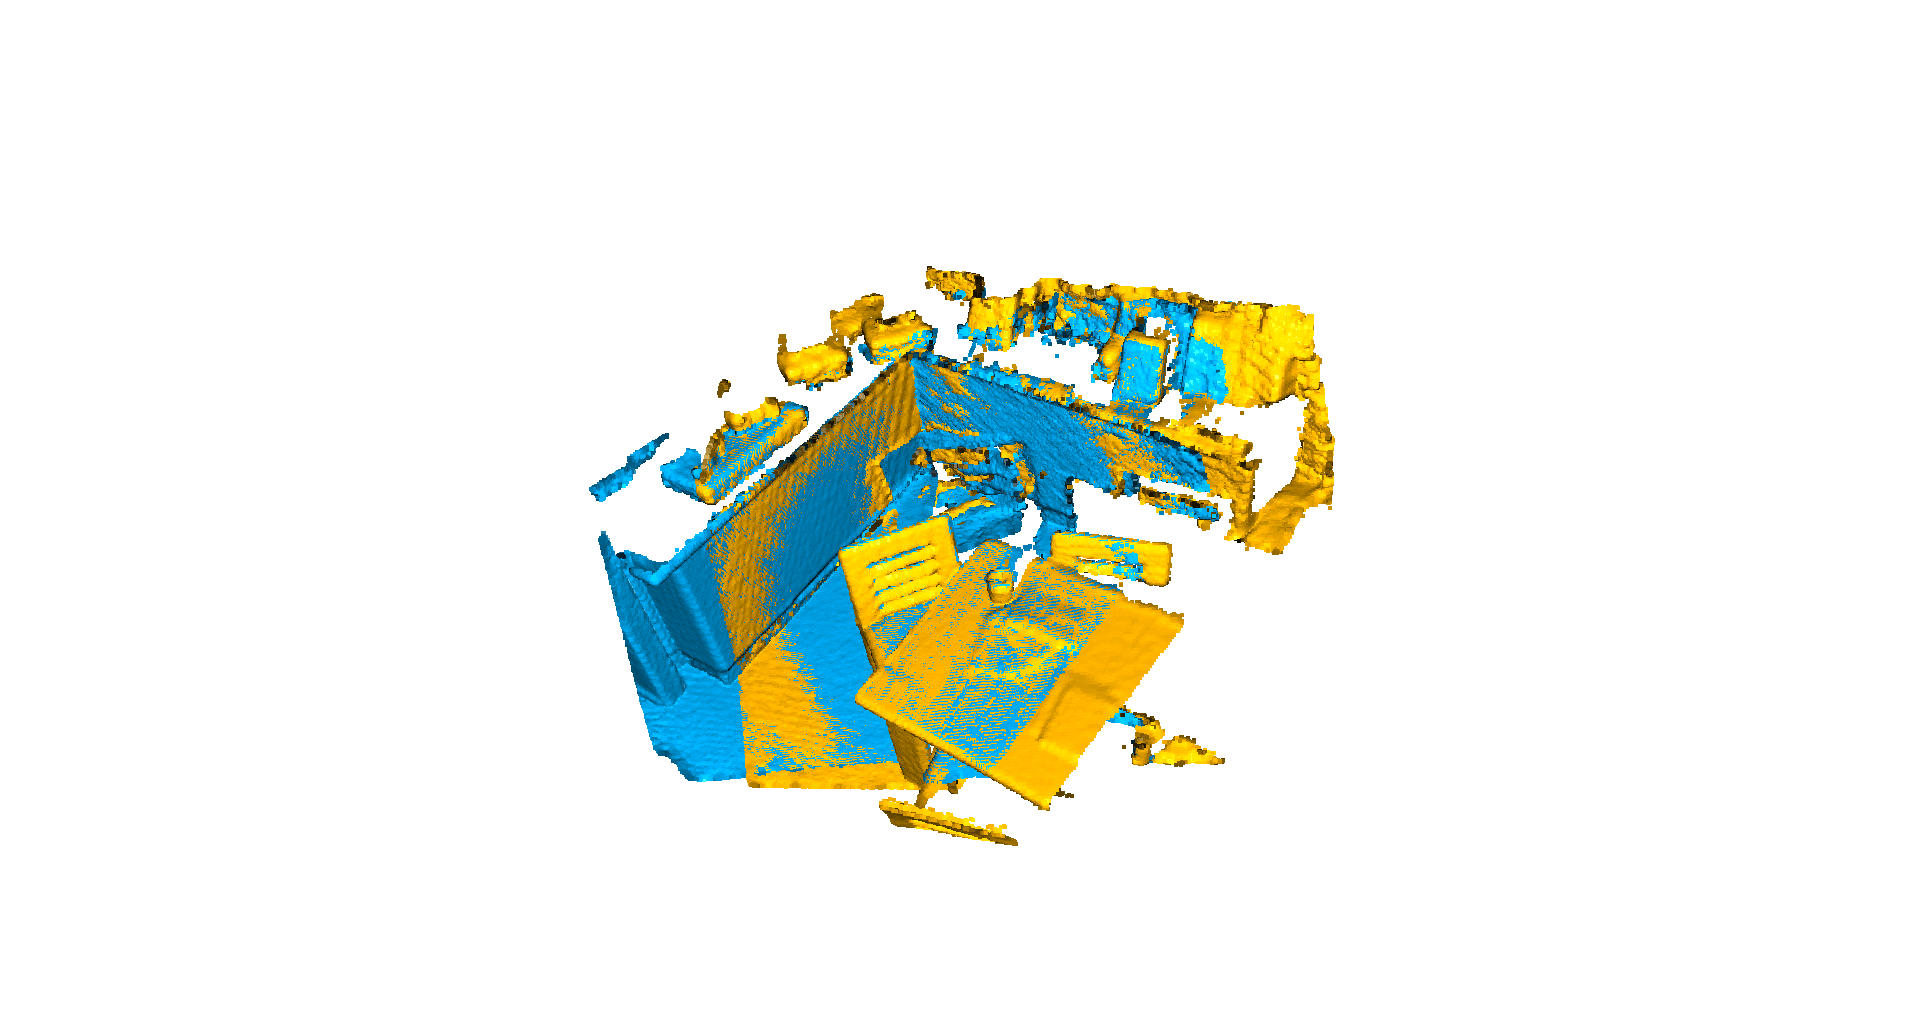
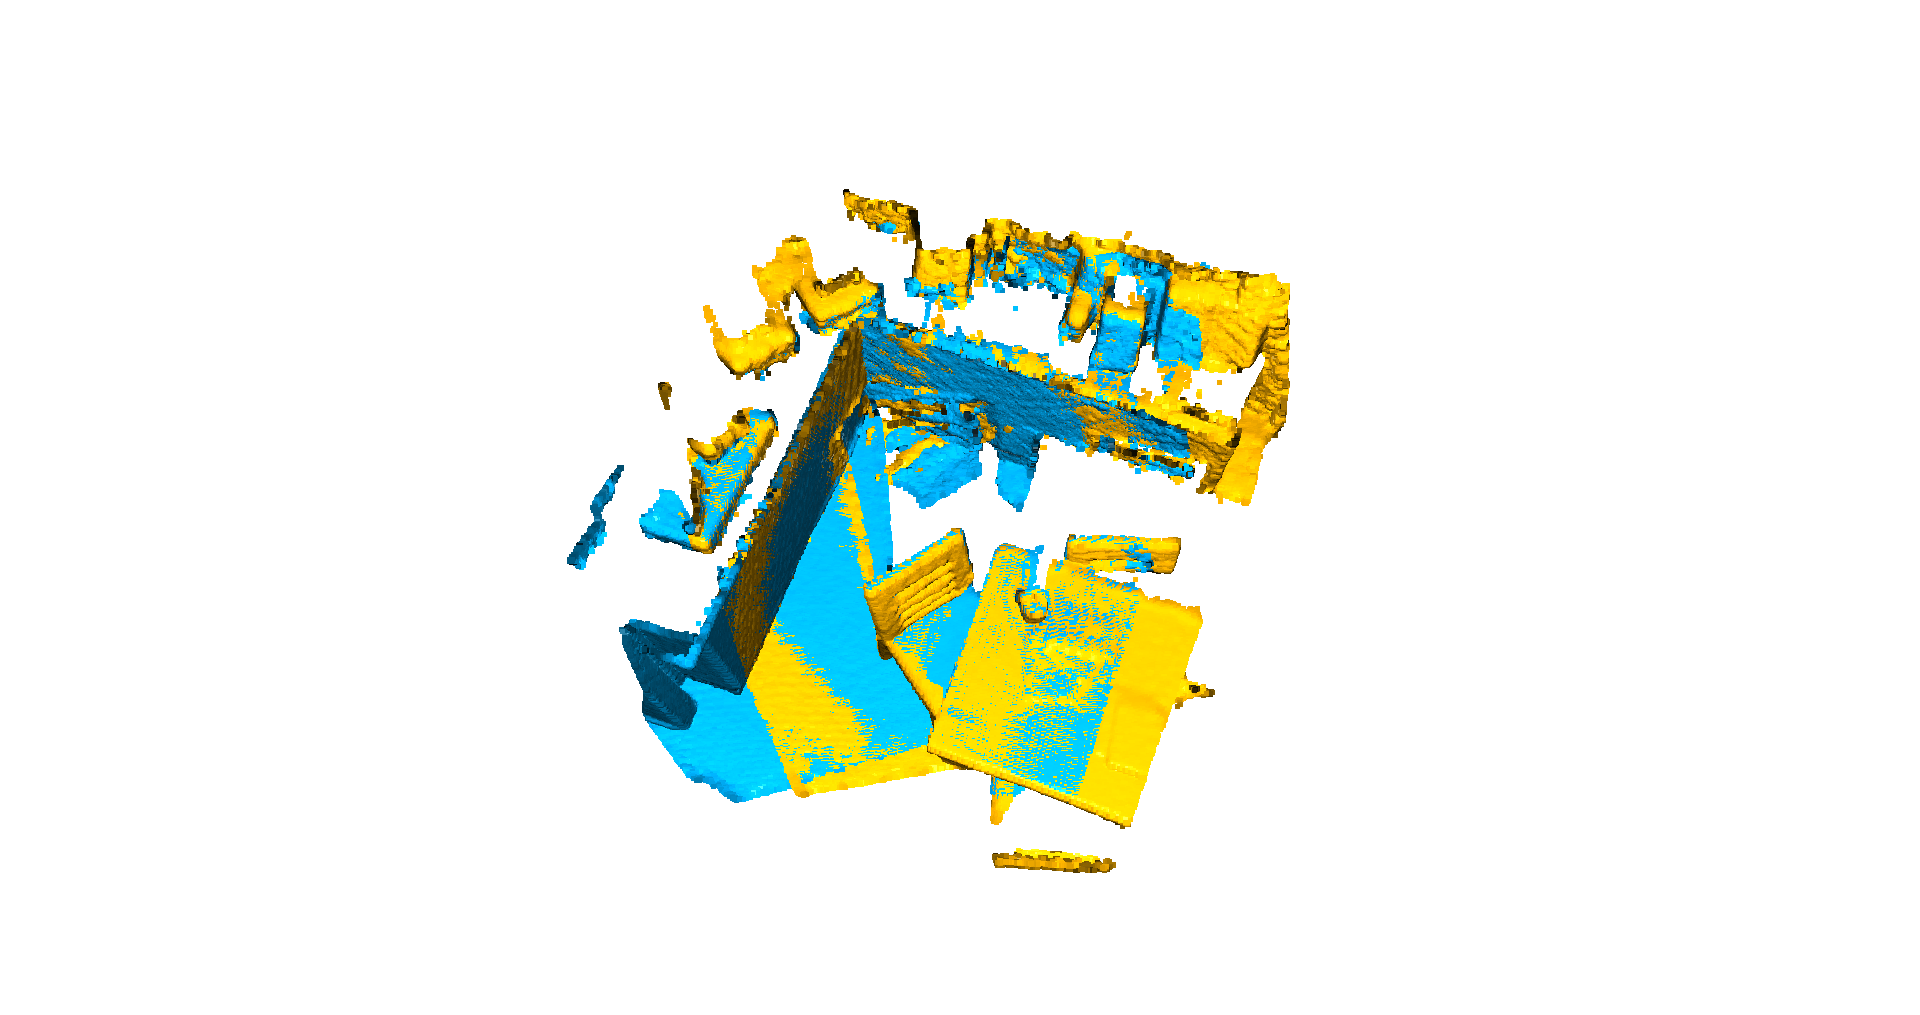
update pic and demo

Changed region(s): [[0.2812, 0.1833, 0.7188, 0.8552]]

diff --git a/demo.py b/demo.py
@@ -2,12 +2,14 @@ import os
 import copy
 import json
 import torch
-import open3d
 import numpy as np
+import open3d as o3d
 import torch.utils.data as data
+from sklearn.neighbors import KDTree
 from easydict import EasyDict as edict
 from models.architectures import KPFCNN
 from datasets.dataloader import get_dataloader
+from utils.visualization import get_colored_point_cloud_feature
 
 
 class MiniDataset(data.Dataset):
@@ -17,7 +19,6 @@ class MiniDataset(data.Dataset):
                  files,
                  downsample=0.03,
                  config=None,
-                 last_scene=False,
                  ):
         self.files = files
         self.downsample = downsample
@@ -29,8 +30,9 @@ class MiniDataset(data.Dataset):
         self.num_test = 0
 
         for filename in files:
-            pcd = open3d.io.read_point_cloud(filename)
-            pcd = open3d.geometry.PointCloud.voxel_down_sample(pcd, voxel_size=downsample)
+            pcd = o3d.io.read_point_cloud(filename)
+            pcd = o3d.geometry.PointCloud.voxel_down_sample(pcd, voxel_size=downsample)
+
             points = np.array(pcd.points)
             self.points += [points]
             self.ids_list += [filename]
@@ -49,7 +51,7 @@ class MiniDataset(data.Dataset):
 def generate_features(model, dloader, point_cloud_files):
     dataloader_iter = dloader.__iter__()
     for pc_file in point_cloud_files:
-        # pcd = open3d.io.read_point_cloud(pc_file)
+        # pcd = o3d.io.read_point_cloud(pc_file)
         # xyz = np.array(pcd.points)
 
         inputs = dataloader_iter.next()
@@ -64,15 +66,12 @@ def generate_features(model, dloader, point_cloud_files):
         features, scores = features[:int(pcd_size)], scores[:int(pcd_size)]
 
         # selecet keypoint based on scores
-        # scores_first_pcd = scores[inputs['in_batches'][0][:-1]]
-        # select_num = 1000
-        # selected_keypoints_id = np.argsort(scores.cpu().detach().numpy(), axis=0)[:].squeeze()[0:select_num]
-
-        selected_keypoints_id = np.argsort(scores.cpu().detach().numpy(), axis=0)[:].squeeze()
+        selected_keypoints_id = np.argsort(scores.cpu().detach().numpy(), axis=0)[::-1].squeeze()
         keypts_score = scores.cpu().detach().numpy()[selected_keypoints_id]
         keypts_loc = pts.cpu().detach().numpy()[selected_keypoints_id]
         anc_features = features.cpu().detach().numpy()[selected_keypoints_id]
 
+        # scores = scores.detach().cpu()
         # save keypts/features/scores in ".npz" format
         np.savez_compressed(
             pc_file.replace(".ply", ""),
@@ -85,30 +84,100 @@ def generate_features(model, dloader, point_cloud_files):
 def draw_registration_result(source, target, transformation):
     source_temp = copy.deepcopy(source)
     target_temp = copy.deepcopy(target)
-    open3d.geometry.PointCloud.estimate_normals(source_temp)
-    open3d.geometry.PointCloud.estimate_normals(target_temp)
+    o3d.geometry.PointCloud.estimate_normals(source_temp)
+    o3d.geometry.PointCloud.estimate_normals(target_temp)
     source_temp.paint_uniform_color([1, 0.706, 0])
     target_temp.paint_uniform_color([0, 0.651, 0.929])
     source_temp.transform(transformation)
-    open3d.visualization.draw_geometries([source_temp, target_temp])
+    o3d.visualization.draw_geometries([source_temp, target_temp])
 
 
 def execute_global_registration(src_keypts, tgt_keypts, src_desc, tgt_desc, distance_threshold):
-    result = open3d.pipelines.registration.registration_ransac_based_on_feature_matching(
+    # result = o3d.pipelines.registration.registration_ransac_based_on_feature_matching(
+    #     src_keypts, tgt_keypts, src_desc, tgt_desc, distance_threshold,
+    #     o3d.pipelines.registration.TransformationEstimationPointToPoint(False),
+    #     4, [o3d.pipelines.registration.CorrespondenceCheckerBasedOnEdgeLength(0.9),
+    #         o3d.pipelines.registration.CorrespondenceCheckerBasedOnDistance(distance_threshold)],
+    #     o3d.pipelines.registration.RANSACConvergenceCriteria(4000000, 500))
+    result = o3d.pipelines.registration.registration_ransac_based_on_feature_matching(
         src_keypts, tgt_keypts, src_desc, tgt_desc, True, distance_threshold,
-        open3d.pipelines.registration.TransformationEstimationPointToPoint(False), 3,
-        [open3d.pipelines.registration.CorrespondenceCheckerBasedOnEdgeLength(0.9),
-         open3d.pipelines.registration.CorrespondenceCheckerBasedOnDistance(distance_threshold)
-         ], open3d.pipelines.registration.RANSACConvergenceCriteria(4000000, 500))
+        o3d.pipelines.registration.TransformationEstimationPointToPoint(False), 3,
+        [o3d.pipelines.registration.CorrespondenceCheckerBasedOnEdgeLength(0.9),
+         o3d.pipelines.registration.CorrespondenceCheckerBasedOnDistance(distance_threshold)
+         ], o3d.pipelines.registration.RANSACConvergenceCriteria(100000, 0.999))
+    # result = o3d.pipelines.registration.registration_fast_based_on_feature_matching(src_keypts, tgt_keypts, src_desc, tgt_desc, option=None)
     return result
 
 
 def refine_registration(source, target, result_ransac, distance_threshold):
-    result = open3d.pipelines.registration.registration_icp(
+    result = o3d.pipelines.registration.registration_icp(
         source, target, distance_threshold, result_ransac.transformation,
-        open3d.pipelines.registration.TransformationEstimationPointToPlane())
+        o3d.pipelines.registration.TransformationEstimationPointToPlane())
     return result
 
+
+def pcd2xyz(pcd):
+    return np.asarray(pcd.points).T
+
+
+def Rt2T(R, t):
+    T = np.identity(4)
+    T[:3, :3] = R
+    T[:3, 3] = t
+    return T
+
+
+def find_mutually_nn_keypoints(ref_key, test_key, ref, test):
+    """
+    Use kdtree to find mutually closest keypoints
+
+    ref_key: reference keypoints (source)
+    test_key: test keypoints (target)
+    ref: reference feature (source feature)
+    test: test feature (target feature)
+    """
+    ref_features = ref.data.T
+    test_features = test.data.T
+    ref_keypoints = np.asarray(ref_key.points)
+    test_keypoints = np.asarray(test_key.points)
+    n_samples = test_features.shape[0]
+
+    ref_tree = KDTree(ref_features)
+    test_tree = KDTree(test.data.T)
+    test_NN_idx = ref_tree.query(test_features, return_distance=False)
+    ref_NN_idx = test_tree.query(ref_features, return_distance=False)
+
+    # find mutually closest points
+    ref_match_idx = np.nonzero(
+        np.arange(n_samples) == np.squeeze(test_NN_idx[ref_NN_idx])
+    )[0]
+    ref_matched_keypoints = ref_keypoints[ref_match_idx]
+    test_matched_keypoints = test_keypoints[ref_NN_idx[ref_match_idx]]
+
+    return np.transpose(ref_matched_keypoints), np.transpose(test_matched_keypoints)
+
+
+def compose_mat4_from_teaserpp_solution(solution):
+    """
+    Compose a 4-by-4 matrix from teaserpp solution
+    """
+    s = solution.scale
+    rotR = solution.rotation
+    t = solution.translation
+    T = np.eye(4)
+    T[0:3, 3] = t
+    R = np.eye(4)
+    R[0:3, 0:3] = rotR
+    M = T.dot(R)
+
+    if s == 1:
+        M = T.dot(R)
+    else:
+        S = np.eye(4)
+        S[0:3, 0:3] = np.diag([s, s, s])
+        M = T.dot(R).dot(S)
+
+    return M
 
 if __name__ == '__main__':
     ######################  Preprocess  ######################
@@ -118,8 +187,8 @@ if __name__ == '__main__':
                          "./demo_data/cloud_bin_1.ply"]
 
     # model path
-    # TODO: choose your model path
-    model_pathdir = 'D3Feat/snapshot/D3Feat04112122'
+    model_pathdir = './pretrain_model/D3Feat08051813'
+    # model_pathdir = './D3Feat/snapshot/D3Feat04112122'
     config_path = os.path.join(model_pathdir, 'config.json')
     model_path = os.path.join(model_pathdir, 'models/model_best_acc.pth')
     save_path = ["./demo_data/cloud_bin_0.npz",
@@ -149,11 +218,14 @@ if __name__ == '__main__':
     print(f"Load weight from {model_path}")
     model.eval()
 
-    # TODO: choose whether calculate descriptors
+    # datasets = prepare_data(point_cloud_files)
+
     calculate_descriptors = True
-    if calculate_descriptors == True:
+    if calculate_descriptors:
+        print("###################  Calculate Descriptors  ####################")
         # calculate descriptors
         # Initiate dataset configuration
+        # TODO: set downsample
         dataset = MiniDataset(files=point_cloud_files, downsample=0.03, config=config)
 
         dloader, _ = get_dataloader(dataset=dataset,
@@ -164,89 +236,99 @@ if __name__ == '__main__':
         generate_features(model.cuda(), dloader, point_cloud_files)
 
     ###################### Visualize  ######################
-    # show pc and registration
-    # Load the descriptors and estimate the transformation parameters using RANSAC
-    src_pcd = open3d.io.read_point_cloud(point_cloud_files[0])
-    tgt_pcd = open3d.io.read_point_cloud(point_cloud_files[1])
+    src_pcd = o3d.io.read_point_cloud(point_cloud_files[0])
+    tgt_pcd = o3d.io.read_point_cloud(point_cloud_files[1])
 
-    # TODO: define src descriptors file path
-    src_data = np.load(save_path[0])
-    src_features = open3d.pipelines.registration.Feature()
+    src_data = np.load("./demo_data/cloud_bin_0.npz")
+    src_features = o3d.pipelines.registration.Feature()
     src_features.data = src_data["features"].T
-    src_keypts = open3d.geometry.PointCloud()
-    src_keypts.points = open3d.utility.Vector3dVector(src_data["keypts"])
+    src_keypts = o3d.geometry.PointCloud()
+    src_keypts.points = o3d.utility.Vector3dVector(src_data["keypts"])
+    # o3d.visualization.draw_geometries([src_keypts])  # 显示一下
     src_scores = src_data["scores"]
 
-    # TODO: define tgt descriptors file path
-    tgt_data = np.load(save_path[1])
-    tgt_features = open3d.pipelines.registration.Feature()
+    tgt_data = np.load("./demo_data/cloud_bin_1.npz")
+    tgt_features = o3d.pipelines.registration.Feature()
     tgt_features.data = tgt_data["features"].T
-    tgt_keypts = open3d.geometry.PointCloud()
-    tgt_keypts.points = open3d.utility.Vector3dVector(tgt_data["keypts"])
+    tgt_keypts = o3d.geometry.PointCloud()
+    tgt_keypts.points = o3d.utility.Vector3dVector(tgt_data["keypts"])
+    # o3d.visualization.draw_geometries([tgt_keypts])
     tgt_scores = tgt_data["scores"]
 
-    # Show result
+    # # Show result
     # First plot the original state of the point clouds
+    print("1st: plot the original state of the point clouds")
     draw_registration_result(src_pcd, tgt_pcd, np.identity(4))
 
     # Plot point clouds after ransac registration
-    # TODO: set voxel_size/distance_threshold/radius_normal/icp_distance_threshold
+    print("2nd: plot point clouds after ransac registration")
     voxel_size = 0.03
     distance_threshold = voxel_size * 1.5
-    result_ransac = execute_global_registration(src_keypts, tgt_keypts, src_features, tgt_features, distance_threshold=distance_threshold)
+    result_ransac = execute_global_registration(src_keypts, tgt_keypts, src_features, tgt_features,
+                                                distance_threshold=distance_threshold)
     print(f"result_ransac: {result_ransac}")
     draw_registration_result(src_pcd, tgt_pcd, result_ransac.transformation)
 
     # Plot point clouds after icp registration
+    print("3rd: plot point clouds after icp registration")
     radius_normal = voxel_size * 2
-    src_keypts.estimate_normals(open3d.geometry.KDTreeSearchParamHybrid(radius=radius_normal, max_nn=30))
-    tgt_keypts.estimate_normals(open3d.geometry.KDTreeSearchParamHybrid(radius=radius_normal, max_nn=30))
+    src_keypts.estimate_normals(o3d.geometry.KDTreeSearchParamHybrid(radius=radius_normal, max_nn=30))
+    tgt_keypts.estimate_normals(o3d.geometry.KDTreeSearchParamHybrid(radius=radius_normal, max_nn=30))
 
     icp_distance_threshold = voxel_size
     result_icp = refine_registration(src_keypts, tgt_keypts, result_ransac, distance_threshold=icp_distance_threshold)
     draw_registration_result(src_pcd, tgt_pcd, result_icp.transformation)
     print(f"result_icp: {result_icp}")
 
-    # Visualize the detected keypts on src_pcd and tgt_pcd
-    # TODO: set show keypts num and keypts size
+    ####################### Visualize the detected keypts on src_pcd and tgt_pcd #######################
     show_num = 50
-    keypts_radius = 0.03
-    box_list = []
-    top_k = np.argsort(tgt_scores, axis=0)[-show_num:]
-    for i in range(show_num):
-        mesh_box = open3d.geometry.TriangleMesh.create_sphere(radius=keypts_radius)
-        mesh_box.translate(tgt_data["keypts"][top_k[i]].reshape([3, 1]))
-        mesh_box.paint_uniform_color([1, 0, 0])
-        box_list.append(mesh_box)
+    point_size = 0.03
 
-    open3d.geometry.PointCloud.estimate_normals(tgt_pcd)
-    tgt_pcd.paint_uniform_color([0, 0.651, 0.929])
-    open3d.visualization.draw_geometries([tgt_pcd] + box_list)
-    
-    # visual feature
-    import torch.nn as nn
-    Linear = nn.Linear(32, 3)
-    feat_3d = Linear(torch.tensor(tgt_data["features"]).float())
-    feat_3d = normal(feat_3d)
-    tgt_keypts.colors = open3d.utility.Vector3dVector(feat_3d.detach().numpy())
-    open3d.visualization.draw_geometries([tgt_keypts])
-
-
+    print("4th: Visualize the detected keypts on src_pcd")
     box_list = []
     top_k = np.argsort(src_scores, axis=0)[-show_num:]
+
     for i in range(show_num):
-        mesh_box = open3d.geometry.TriangleMesh.create_sphere(radius=keypts_radius)
+        mesh_box = o3d.geometry.TriangleMesh.create_sphere(radius=point_size)
         mesh_box.translate(src_data["keypts"][top_k[i]].reshape([3, 1]))
         mesh_box.paint_uniform_color([1, 0, 0])
         box_list.append(mesh_box)
 
-    open3d.geometry.PointCloud.estimate_normals(src_pcd)
-    src_pcd.paint_uniform_color([1, 0.706, 0])
-    open3d.visualization.draw_geometries([src_pcd] + box_list)
-    
-    # visual feature
-    Linear = nn.Linear(32, 3)
-    feat_3d = Linear(torch.tensor(src_data["features"]).float())
-    feat_3d = normal(feat_3d)
-    src_keypts.colors = open3d.utility.Vector3dVector(feat_3d.detach().numpy())
-    open3d.visualization.draw_geometries([src_keypts])
+    o3d.geometry.PointCloud.estimate_normals(src_pcd)
+
+    src_pcd.paint_uniform_color([0, 0.651, 0.929])
+    o3d.visualization.draw_geometries([src_pcd] + box_list)
+    # o3d.visualization.draw_geometries_with_vertex_selection([src_pcd])
+
+    # Visualization of Feature
+    print("5th: Visualize the detected keypts on src_pcd by t-SNE")
+    vis_src_pcd = o3d.geometry.PointCloud()
+    vis_src_pcd.points = o3d.utility.Vector3dVector(src_data["keypts"])
+    o3d.geometry.PointCloud.estimate_normals(vis_src_pcd)
+    vis_src_pcd = get_colored_point_cloud_feature(vis_src_pcd,
+                                                  src_data["features"],
+                                                  voxel_size=0.03)
+    o3d.visualization.draw_geometries([vis_src_pcd])
+
+    print("6th: Visualize the detected keypts on tgt_pcd")
+    box_list = []
+    top_k = np.argsort(tgt_scores, axis=0)[-show_num:]
+    for i in range(show_num):
+        mesh_box = o3d.geometry.TriangleMesh.create_sphere(radius=point_size)
+        mesh_box.translate(tgt_data["keypts"][top_k[i]].reshape([3, 1]))
+        mesh_box.paint_uniform_color([1, 0, 0])
+        box_list.append(mesh_box)
+    o3d.geometry.PointCloud.estimate_normals(tgt_pcd)
+    tgt_pcd.paint_uniform_color([1, 0.706, 0])
+    o3d.visualization.draw_geometries([tgt_pcd] + box_list)
+    # o3d.visualization.draw_geometries_with_vertex_selection([tgt_pcd])
+
+    # Visualization of Feature
+    print("7th: Visualize the detected keypts on tgt_pcd by t-SNE")
+    vis_tgt_pcd = o3d.geometry.PointCloud()
+    vis_tgt_pcd.points = o3d.utility.Vector3dVector(tgt_data["keypts"])
+    o3d.geometry.PointCloud.estimate_normals(vis_tgt_pcd)
+    vis_tgt_pcd = get_colored_point_cloud_feature(vis_tgt_pcd,
+                                                  tgt_data["features"],
+                                                  voxel_size=0.03)
+    o3d.visualization.draw_geometries([vis_tgt_pcd])

diff --git a/README.md b/README.md
@@ -76,5 +76,5 @@ python demo.py
 ### 5. keypts_tgt
 ![keypts_tgt](demo_pic/keypts_tgt.png)
 
-### 6. change the feature dimention to 3, then visual feature, the left is src_feat and the right is tgt_feat
+### 6. change the feature dimention to 3, then visual feature by t-SNE, the left is src_feat and the right is tgt_feat
 ![src_feat](demo_pic/src_feat.png)![tgt_feat](demo_pic/tgt_feat.png)
